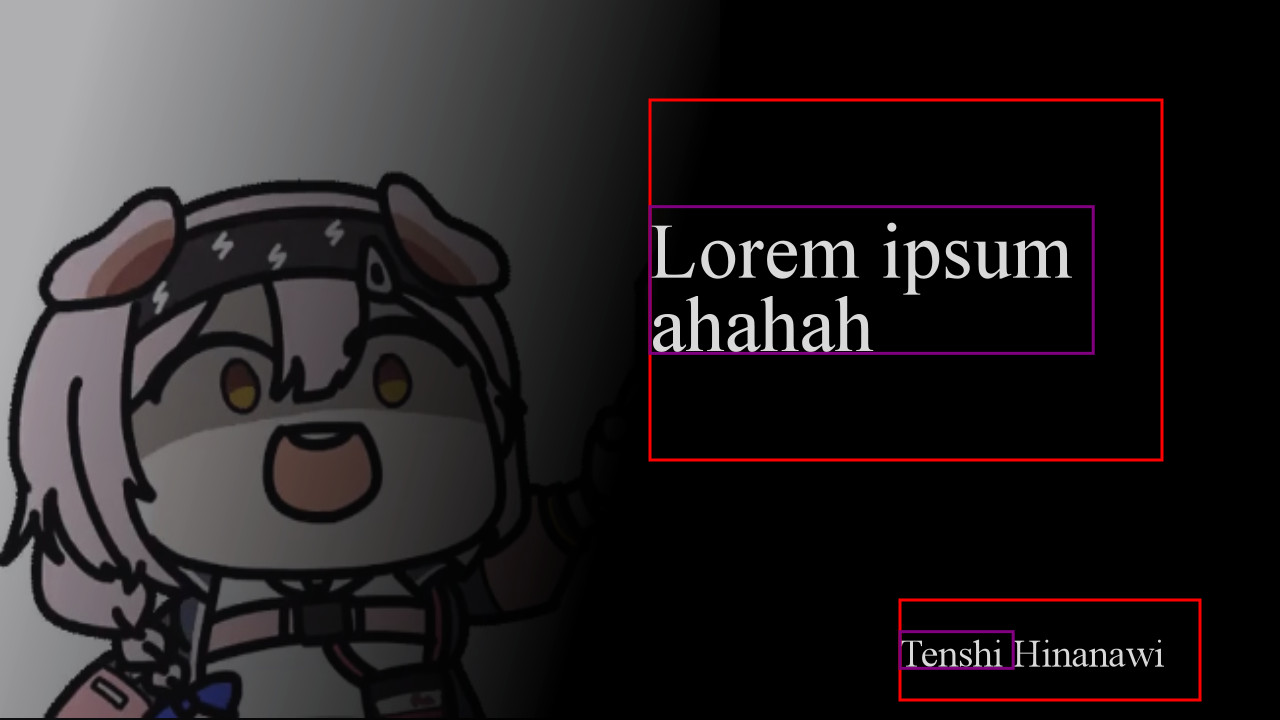
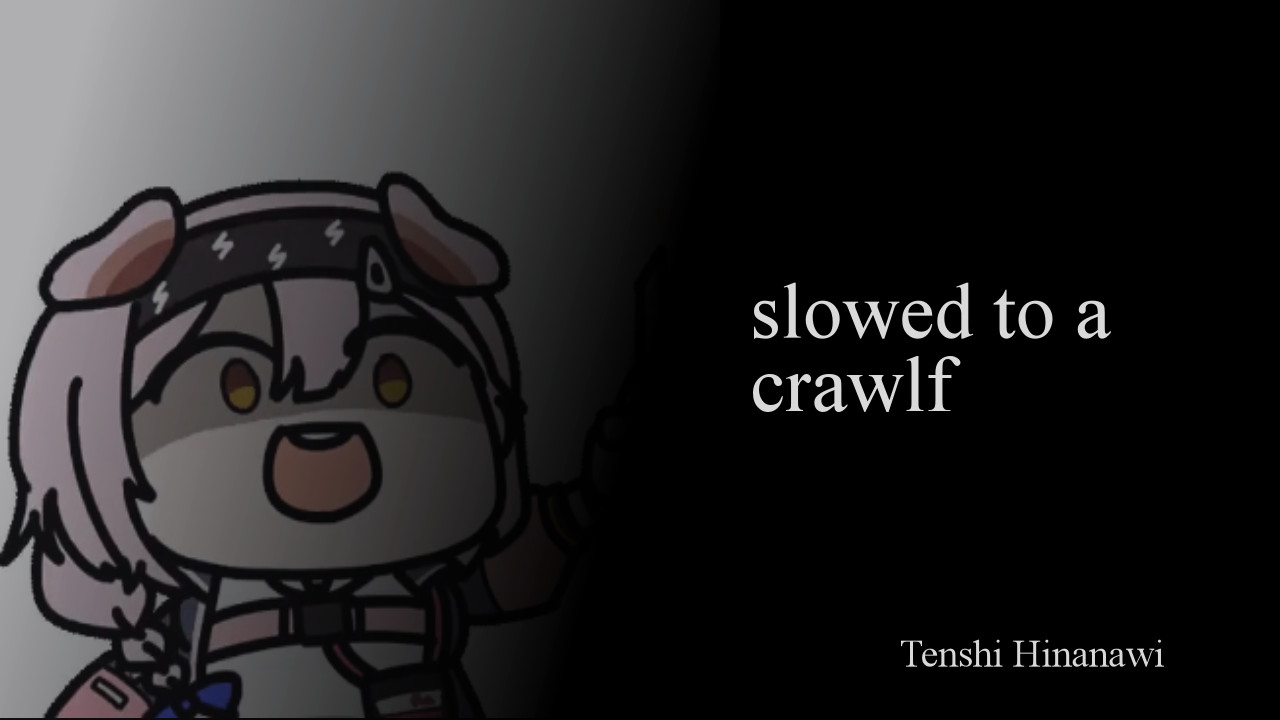
feat: implemented text resizing

diff --git a/index.ts b/index.ts
@@ -1,121 +1,133 @@
 import canvas from "canvas";
 import fs from "fs";
 import express from "express";
-import { quote, quoteAttachment, Text } from "./src/quote.js";
-import { WEBPToCanvas, getImage } from "./src/helpers.js";
+import {quote, quoteAttachment, Text} from "./src/quote.js";
+import {WEBPToCanvas, getImage} from "./src/helpers.js";
 
 const app = express();
 
-app.use(express.json({ limit: "20mb" }));
+app.use(express.json({limit: "20mb"}));
 
 const overlay = await canvas.loadImage("resources/frame/overlay_gradient.png");
 const test_pfp = await canvas.loadImage("resources/frame/profile.png");
 
-app.get("/ping", async (req, res) => { res.send(true) });
+app.get("/ping", async (req, res) => {res.send(true)});
 
 app.post("/quote", async (req, res) => {
-    const c = canvas.createCanvas(1280, 720);
-    const ctx = c.getContext("2d");
+	const c = canvas.createCanvas(1280, 720);
+	const ctx = c.getContext("2d");
 
-    const pfp = req.body.use_test_pfp 
-			? await canvas.loadImage(Buffer.from(await getImage(req.body.avatar_url)))
-			: test_pfp;
+	const pfp = req.body.use_test_pfp
+		? test_pfp
+		: await canvas.loadImage(Buffer.from(await getImage(req.body.avatar_url)));
 
-		const text: Text = {
-				text: req.body.text,
-				size: 50,
-				x: 650,
-				y: 100,
-				w: Math.floor(c.width / 2.5),
-				h: (c.height / 2),
-				extras: "Bold",
-		};
-		const author: Text = {
-				text: req.body.author,
-				size: 10,
-				x: 900,
-				y: 600,
-				w: 300,
-				h: 100,
-		};
+	const text: Text = {
+		text: req.body.text,
+		size: 50,
+		x: 750,
+		y: 100,
+		w: Math.floor(c.width / 2.5),
+		h: (c.height / 1.5),
+		extras: "Bold",
+	};
+	const author: Text = {
+		text: req.body.author,
+		size: 10,
+		x: 900,
+		y: 600,
+		w: 300,
+		h: 100,
+	};
 
-    const box_info = quote(ctx, text, author, pfp, overlay);
-		if (req.body.show_bounding) {
-				box_info.text_area.draw_bounding_box();
-				box_info.text_area.draw_true_bounding_box();
-				box_info.author_area.draw_bounding_box();
-				box_info.author_area.draw_true_bounding_box();
-		}
-    
-		const buffer = c.toBuffer("image/jpeg", {
-				quality: 0.9,
-				progressive: false,
-				chromaSubsampling: false
-		});
+	const box_info = quote(ctx, text, author, pfp, overlay);
+	if (req.body.show_bounding) {
+		box_info.text_area.draw_bounding_box();
+		box_info.text_area.draw_true_bounding_box();
+		box_info.author_area.draw_bounding_box();
+		box_info.author_area.draw_true_bounding_box();
+	}
 
-		if (req.body.pipe_to_file) {
-				fs.writeFileSync("fff.jpeg", buffer);
-				res.send("");
-		} else {
-				res.send(buffer);
-		}
+	const buffer = c.toBuffer("image/jpeg", {
+		quality: 0.9,
+		progressive: false,
+		chromaSubsampling: false
+	});
 
+	if (req.body.pipe_to_file) {
+		fs.writeFileSync("fff.jpeg", buffer);
+		res.send("");
+	} else {
+		res.send(buffer);
+	}
 });
 
 /*
 	* {
+	* 	text: string,
+	* 	author: string,
 	* 	attachment_url: string,
 	* 	attachment_height: number,
 	* 	attachment_width: number,
-	* 	mimetype: string
+	* 	mimetype: string,
+	* 	use_test_pfp: bool,
+	* 	show_bounding: bool,
+	* 	pipe_to_file: bool,
 	* }
 	*/
 app.post("/quote/img", async (req, res) => {
-    const c = canvas.createCanvas(1280, 720);
-    const ctx = c.getContext("2d");
+	const c = canvas.createCanvas(1280, 720);
+	const ctx = c.getContext("2d");
 
-		const source_image = Buffer.from(await getImage(req.body.attachment_url));
-    
-		const pfp = await canvas.loadImage(Buffer.from(await getImage(req.body.avatar_url)));
-		const mimetype: string = req.body.mimetype;
-    const attachment = mimetype.includes("image/webp")
-    	? await WEBPToCanvas(source_image, req.body.attachment_width, req.body.attachment_height)
-			: await canvas.loadImage(Buffer.from(await getImage(req.body.attachment_url)))
 
-		const text: Text = {
-				text: req.body.text,
-				size: 80,
-				x: 700,
-				y: 30,
-				w: 300,
-				h: 1000,
-				extras: "Bold",
-		};
-		const author: Text = {
-				text: req.body.author,
-				size: 30,
-				x: 1000,
-				y: 500,
-				w: 300,
-				h: 40,
-		}
+	const pfp = req.body.use_test_pfp
+		? test_pfp
+		: await canvas.loadImage(Buffer.from(await getImage(req.body.avatar_url)));
 
-		quoteAttachment(c, ctx,
-        text,
-        author,
-        pfp, 
-				overlay,
-        attachment
-    );
+	const mimetype: string = req.body.mimetype;
+	const source_image = Buffer.from(await getImage(req.body.attachment_url));
+	const attachment = mimetype.includes("image/webp")
+		? await WEBPToCanvas(source_image, req.body.attachment_width, req.body.attachment_height)
+		: await canvas.loadImage(Buffer.from(await getImage(req.body.attachment_url)))
 
-    const buffer = c.toBuffer("image/jpeg", {
-        quality: 0.9,
-        progressive: false,
-        chromaSubsampling: false
-    })
-    res.send(buffer);
+	const text: Text = {
+		text: req.body.text,
+		size: 20,
+		x: 800,
+		y: 500,
+		w: 400,
+		h: 100,
+		extras: "Bold",
+	};
+	const author: Text = {
+		text: req.body.author,
+		size: 20,
+		x: 1000,
+		y: 600,
+		w: 200,
+		h: 60,
+	}
+
+	const box_info = quoteAttachment(c, ctx, text, author, pfp, overlay, attachment);
+	if (req.body.show_bounding) {
+		box_info.text_area.draw_bounding_box();
+		box_info.text_area.draw_true_bounding_box();
+		box_info.author_area.draw_bounding_box();
+		box_info.author_area.draw_true_bounding_box();
+	}
+
+	const buffer = c.toBuffer("image/jpeg", {
+		quality: 0.9,
+		progressive: false,
+		chromaSubsampling: false
+	})
+	if (req.body.pipe_to_file) {
+		fs.writeFileSync("fff_attachment.jpeg", buffer);
+		res.send("");
+	} else {
+		res.send(buffer);
+	}
 });
 
 app.listen(4000, () => {
-    console.log(`Connected to localhost:4000.`)
+	console.log(`Connected to localhost:4000.`)
 });

diff --git a/src/quote.ts b/src/quote.ts
@@ -88,16 +88,16 @@ export class TextArea {
 			absolute_word_y_offset += global_text_metrics.actualBoundingBoxDescent / y_adjust;
 
 			coords.push(local_coords);
+			this.relative_text_height = absolute_word_y_offset.valueOf() - this.y;
 		}
-
-		this.relative_text_height = absolute_word_y_offset.valueOf() - this.y;
+		
 		return coords;
 	}
 	/*
 		* Resizing fonts to f
 		*
 		*/
-	public auto_font_resize() {
+	public auto_font_resize(iterations: number) {
 		const previousFont = this.ctx.font.toString();
 		const previousFontSizeMatch = previousFont.match(/(\d+)px/)?.[1];
 		const garbageStyle = previousFont.replace(`${previousFontSizeMatch}px`, "()");
@@ -114,7 +114,7 @@ export class TextArea {
 		let wrapped: WordCoords[][] = [];
 
 		// a bodge to avoid the bouncing font sizes (50 => 49 => 50 => 49 ...)
-		for (let i = 0; i < 30; i++) {
+		for (let i = 0; i < iterations; i++) {
 			/*
 			console.log(`fontsize: ${previousFontSize}, style: ${this.ctx.font}`);
 			console.log(`text_y_limit: ${absolute_text_y_limit}, text_y: ${absolute_y_limit}`);
@@ -241,13 +241,15 @@ export class TextArea {
 	}
 }
 
+// bad abstraction, what the fuck are you doing man
 export function writeText(
 		ctx: canvas.CanvasRenderingContext2D,
 		text: Text,
+		iterations: number,
 ) {
     const text_area = new TextArea(ctx, text.text, text.x, text.y, text.w, text.h);
 		text_area.wrap_words();
-	  const coords = text_area.auto_font_resize();
+	  const coords = text_area.auto_font_resize(iterations);
 		text_area.adjust_text_for_centering(coords.wrapped);
 		for (const y_coord of coords.wrapped) {
 			for (const x_coord of y_coord) {
@@ -269,10 +271,10 @@ export function quote(
 
     ctx.fillStyle = "#d9d9d9";
     ctx.font = `${text.extras ?? ""} ${text.size}px Times New Roman`;
-		const text_area = writeText(ctx, text);
+		const text_area = writeText(ctx, text, 50);
 
     ctx.font = `${author.extras ?? ""} ${author.size}px Times New Roman`;
-		const author_area = writeText(ctx, author);
+		const author_area = writeText(ctx, author, 10);
 
 		return {text_area, author_area};
 }
@@ -289,17 +291,30 @@ export function quoteAttachment(
     ctx.drawImage(pfp, 0, 0, 720, 718);
     ctx.drawImage(overlay, 0, 0);
     
-		quote(ctx, text, author, pfp, overlay)
+		const areas = quote(ctx, text, author, pfp, overlay)
 
-    const ratio = attachment.width / attachment.height;
+		const x = 1000;
+		const y = (c.height / 2) - 100;
+		const ratio = attachment.width / attachment.height;
     const width = 400;
-    const height = width / ratio;
+    const height = 400;
+		let adjusted_width = width.valueOf();
+		let adjusted_height = height.valueOf();
+
+		if (width / ratio > height) {
+			adjusted_width = height * ratio;
+		} else {
+			adjusted_height = width / ratio;
+		}
+
     ctx.globalAlpha = 0.9;
     ctx.drawImage(
         attachment, 
-        (c.width - width) - 110, 
-        (c.height - height) - 230, 
-        width, 
-        height);
+        x - (adjusted_width / 2), 
+        y - (adjusted_height / 2), 
+        adjusted_width, 
+        adjusted_height);
     ctx.globalAlpha = 1;
+
+		return areas;
 }
